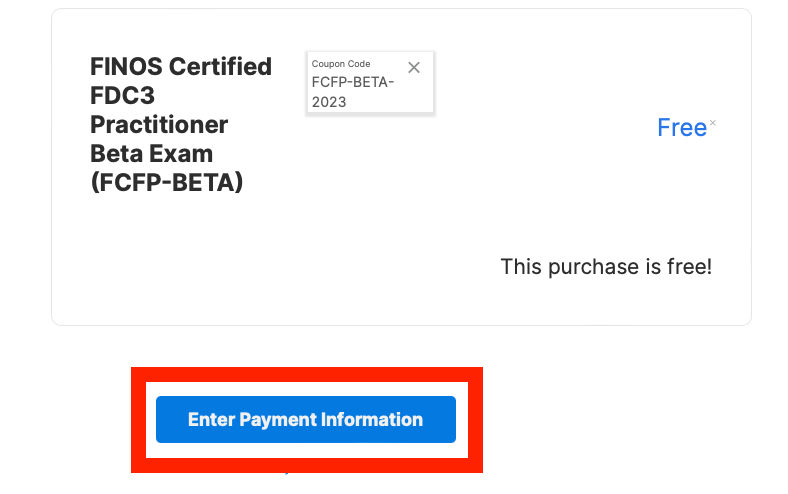
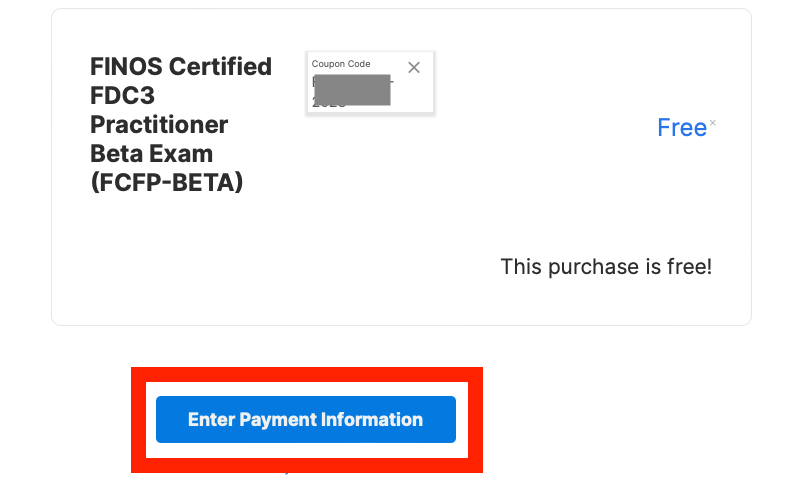
Hiding coupon

Changed region(s): [[0.3959, 0.1518, 0.5178, 0.2126]]

diff --git a/docs/guides/certification-instructions.md b/docs/guides/certification-instructions.md
@@ -36,7 +36,7 @@ If you **complete** the exam, you'll receive some **FINOS swag** (a t-shirt) and
       <img src="/certification/2-coupon.png" alt="Image of slide number 2" />
     </div>
     <div className="slide-notes">
-      <p>Next use the coupon code <strong>FCFP-BETA-2023</strong> in the box to reduce the price to zero.</p>
+      <p>Next use the coupon code <strong>from the email</strong> in the box to reduce the price to zero.</p>
     </div>
   </div>
   <div className="slide slide--bordered">

diff --git a/website/versioned_docs/version-2.1/guides/certification-instructions.md b/website/versioned_docs/version-2.1/guides/certification-instructions.md
@@ -36,7 +36,7 @@ If you **complete** the exam, you'll receive some **FINOS swag** (a t-shirt) and
       <img src="/certification/2-coupon.png" alt="Image of slide number 2" />
     </div>
     <div className="slide-notes">
-      <p>Next use the coupon code <strong>FCFP-BETA-2023</strong> in the box to reduce the price to zero.</p>
+      <p>Next use the coupon code <strong>from the email</strong> in the box to reduce the price to zero.</p>
     </div>
   </div>
   <div className="slide slide--bordered">
